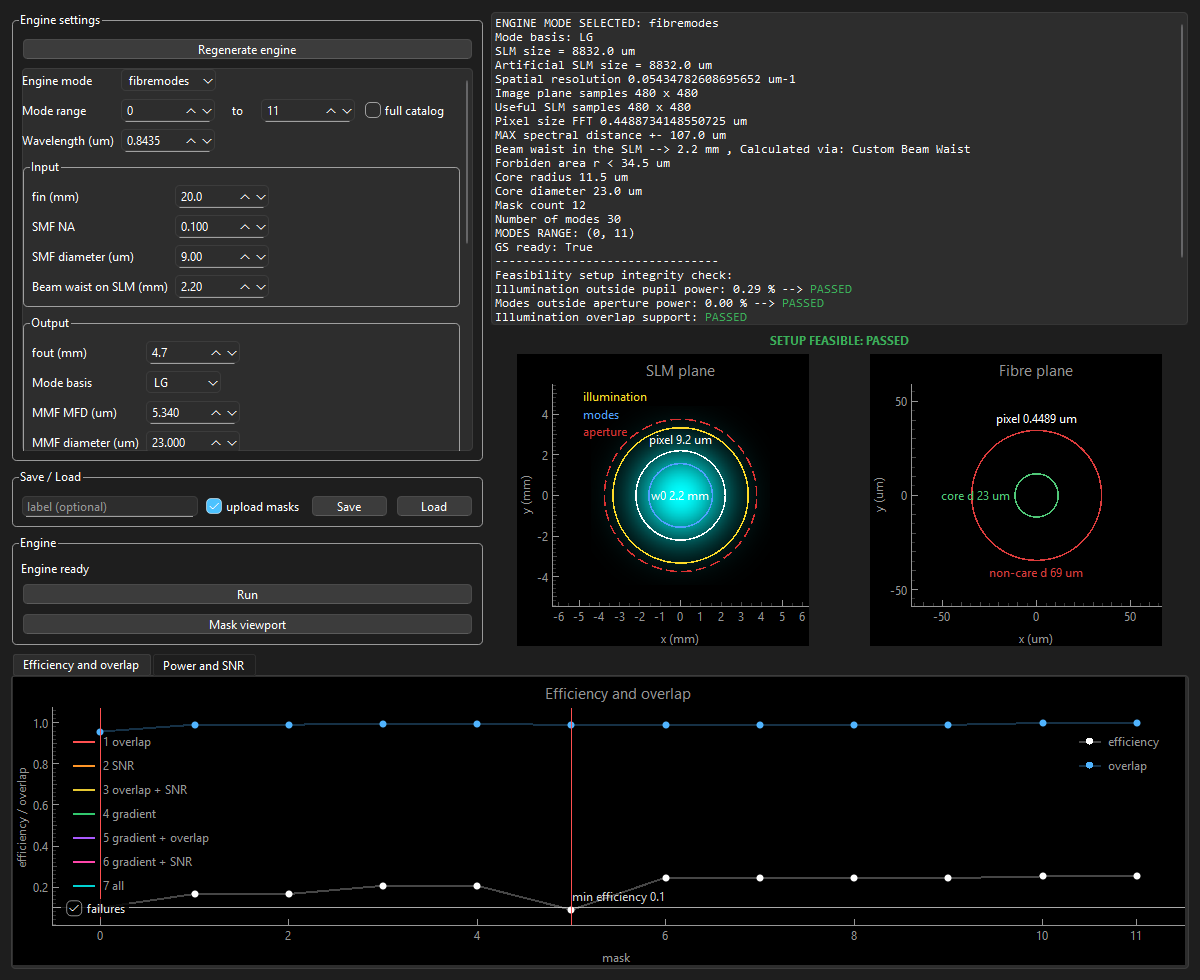
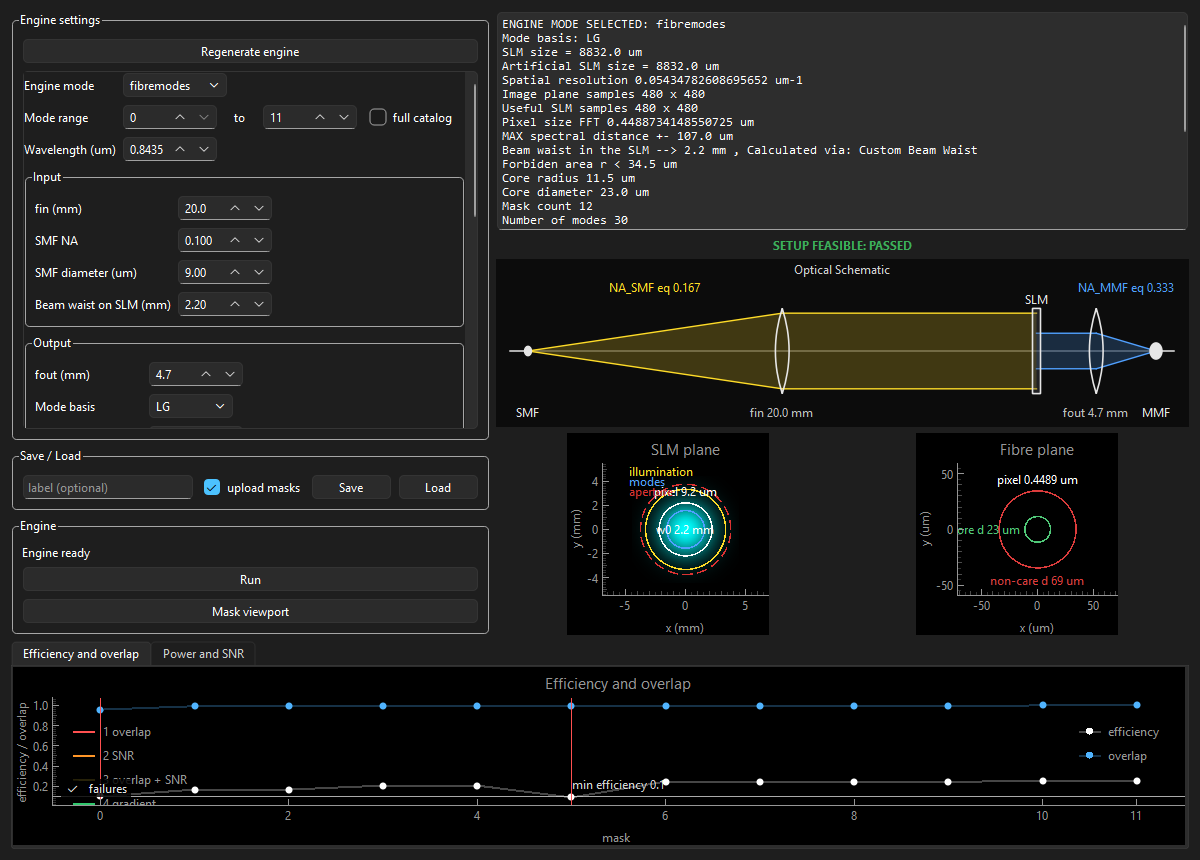
Release gs 1.2.0 with the optical schematic on the widget.
The schematic draws the SMF and MMF beams only as far as the SLM and labels the equivalent numerical apertures, so the aperture check is visible before a run.

diff --git a/ui/schematic.py b/ui/schematic.py
@@ -13,70 +13,97 @@ _HARDWARE = QColor(230, 230, 230)
 
 
 class OpticalBench(QWidget):
-    """SMF to the SLM in yellow, MMF to the SLM in blue.
+    """Both beams are traced back from their coverage radii on the SLM.
 
-    Yellow half-height is ``fin * NA_SMF``. Blue half-height is the mode
-    coverage radius, scaled by the current ``fout`` against the focal length
-    the engine was built with. Both beams stop on the SLM.
+    The SLM bar is the aperture. A radius larger than the aperture sticks out
+    of the bar. ``NA_SMF eq`` is the illumination radius over ``fin``, and
+    ``NA_MMF eq`` is the mode radius over ``fout``.
     """
 
     def __init__(self, parent=None):
         super().__init__(parent)
         self._fin_mm = 1.0
         self._fout_mm = 1.0
-        self._na_smf = 0.1
+        self._ill_radius_mm = None
         self._modes_radius_mm = None
+        self._pupil_mm = None
+        self._fin_ref_mm = None
         self._fout_ref_mm = None
         self.setFixedHeight(168)
 
-    def set_beam(self, fin_mm: float, fout_mm: float, na_smf: float) -> None:
+    def set_beam(self, fin_mm: float, fout_mm: float) -> None:
         self._fin_mm = max(float(fin_mm), 0.1)
         self._fout_mm = max(float(fout_mm), 0.1)
-        self._na_smf = max(float(na_smf), 0.0)
         self.update()
 
-    def set_modes_radius(self, radius_mm: float | None, fout_mm: float) -> None:
-        """Mode footprint on the SLM, measured at ``fout_mm``."""
-        self._modes_radius_mm = None if radius_mm is None else float(radius_mm)
-        self._fout_ref_mm = float(fout_mm) if radius_mm is not None else None
+    def set_footprints(
+        self,
+        ill_mm: float | None,
+        modes_mm: float | None,
+        pupil_mm: float | None,
+        fin_mm: float,
+        fout_mm: float,
+    ) -> None:
+        """Coverage radii and the aperture, measured at these focal lengths."""
+        self._ill_radius_mm = None if ill_mm is None else float(ill_mm)
+        self._modes_radius_mm = None if modes_mm is None else float(modes_mm)
+        self._pupil_mm = None if not pupil_mm else float(pupil_mm)
+        self._fin_ref_mm = float(fin_mm) if ill_mm is not None else None
+        self._fout_ref_mm = float(fout_mm) if modes_mm is not None else None
         self.update()
 
     def paintEvent(self, _event):
         painter = QPainter(self)
         painter.setRenderHint(QPainter.RenderHint.Antialiasing, True)
-        rect = self.rect().adjusted(8, 6, -8, -6)
         painter.fillRect(self.rect(), QColor(12, 12, 12))
+        painter.setPen(QColor(210, 210, 210))
+        painter.drawText(QRectF(0, 2, self.width(), 16), Qt.AlignmentFlag.AlignCenter, "Optical Schematic")
+        rect = self.rect().adjusted(8, 20, -8, -6)
         if rect.width() < 80 or rect.height() < 40:
             return
 
-        cy = rect.center().y() + 4
-        span = rect.height() * 0.30
-        yellow_mm = self._fin_mm * self._na_smf
-        blue_mm = self._blue_mm()
-        scale = span / max(yellow_mm, blue_mm or 0.0, 1e-6)
-        yellow = yellow_mm * scale
-        blue = None if blue_mm is None else blue_mm * scale
-
+        cy = rect.center().y() + 2
         smf, lens1, slm, lens2, mmf = self._stations(rect)
+        bar = rect.height() * 0.30
+        yellow = self._half_px(self._scaled(self._ill_radius_mm, self._fin_mm, self._fin_ref_mm), bar, rect)
+        blue = self._half_px(self._scaled(self._modes_radius_mm, self._fout_mm, self._fout_ref_mm), bar, rect)
+        na_smf = self._equivalent_na(self._ill_radius_mm, self._fin_ref_mm)
+        na_mmf = self._equivalent_na(self._modes_radius_mm, self._fout_ref_mm)
+
         painter.setPen(QPen(_AXIS, 1))
         painter.drawLine(QPointF(smf, cy), QPointF(mmf, cy))
-
-        self._beam(painter, _YELLOW, smf, lens1, slm, cy, yellow)
+        if yellow is not None:
+            self._beam(painter, _YELLOW, smf, lens1, slm, cy, yellow)
         if blue is not None:
             self._beam(painter, _BLUE, mmf, lens2, slm, cy, blue)
+        self._lens(painter, lens1, cy, bar)
+        self._lens(painter, lens2, cy, bar)
+        self._bar(painter, slm, cy, bar, "SLM")
 
         self._fibre(painter, smf, cy, rect.bottom() - 16, 3.5, "SMF", -1)
-        self._lens(painter, lens1, cy)
-        self._slm(painter, slm, cy, rect.height() * 0.36)
-        self._lens(painter, lens2, cy)
         self._fibre(painter, mmf, cy, rect.bottom() - 16, 6.0, "MMF", 1)
-        self._gap_label(painter, lens1, slm, rect.bottom() - 16, f"fin {self._fin_mm:.1f} mm")
-        self._gap_label(painter, slm, lens2, rect.bottom() - 16, f"fout {self._fout_mm:.1f} mm")
+        self._apex_label(painter, lens1, rect.bottom() - 16, f"fin {self._fin_mm:.1f} mm")
+        self._apex_label(painter, lens2, rect.bottom() - 16, f"fout {self._fout_mm:.1f} mm")
+        if na_smf is not None:
+            self._na_label(painter, (smf + lens1) / 2, rect.top(), f"NA_SMF eq {na_smf:.3f}", _YELLOW)
+        if na_mmf is not None:
+            self._na_label(painter, (lens2 + mmf) / 2, rect.top(), f"NA_MMF eq {na_mmf:.3f}", _BLUE)
 
-    def _blue_mm(self) -> float | None:
-        if self._modes_radius_mm is None or not self._fout_ref_mm:
+    def _scaled(self, radius_mm: float | None, focal_mm: float, focal_ref_mm: float | None) -> float | None:
+        if radius_mm is None or not focal_ref_mm:
             return None
-        return self._modes_radius_mm * (self._fout_mm / self._fout_ref_mm)
+        return radius_mm * (focal_mm / focal_ref_mm)
+
+    def _equivalent_na(self, radius_mm: float | None, focal_mm: float | None) -> float | None:
+        if radius_mm is None or not focal_mm:
+            return None
+        return radius_mm / focal_mm
+
+    def _half_px(self, radius_mm: float | None, bar: float, rect: QRectF) -> float | None:
+        """Map a radius onto the aperture bar. Larger than the pupil sticks out."""
+        if radius_mm is None or not self._pupil_mm:
+            return None
+        return min(bar * (radius_mm / self._pupil_mm), rect.height() * 0.44)
 
     def _stations(self, rect: QRectF) -> tuple[float, float, float, float, float]:
         """SMF, first lens, SLM, second lens, MMF. Gaps follow the focal lengths."""
@@ -124,26 +151,31 @@ class OpticalBench(QWidget):
         painter.setPen(_HARDWARE)
         painter.drawText(QRectF(x - 22, label_top, 44, 16), Qt.AlignmentFlag.AlignCenter, label)
 
-    def _lens(self, painter: QPainter, x: float, cy: float):
+    def _lens(self, painter: QPainter, x: float, cy: float, half: float):
+        bulge = max(6.0, half * 9.0 / 28.0)
         path = QPainterPath()
-        path.moveTo(x, cy - 28)
-        path.quadTo(x + 9, cy, x, cy + 28)
-        path.quadTo(x - 9, cy, x, cy - 28)
-        painter.setPen(QPen(_HARDWARE, 1.4))
+        path.moveTo(x, cy - half)
+        path.quadTo(x + bulge, cy, x, cy + half)
+        path.quadTo(x - bulge, cy, x, cy - half)
+        painter.setPen(QPen(_HARDWARE, 1.6))
         painter.setBrush(Qt.BrushStyle.NoBrush)
         painter.drawPath(path)
 
-    def _slm(self, painter: QPainter, x: float, cy: float, half: float):
-        rect = QRectF(x - 5, cy - half, 10, 2 * half)
-        painter.setPen(QPen(_HARDWARE, 1.4))
-        painter.setBrush(QColor(70, 70, 78))
+    def _bar(self, painter: QPainter, x: float, cy: float, half: float, label: str | None = None):
+        rect = QRectF(x - 4, cy - half, 8, 2 * half)
+        fill = QColor(70, 70, 78, 90)
+        painter.setPen(QPen(_HARDWARE, 1.6))
+        painter.setBrush(fill)
         painter.drawRect(rect)
+        if label is None:
+            return
         painter.setPen(_HARDWARE)
-        painter.drawText(QRectF(x - 24, cy - half - 16, 48, 14), Qt.AlignmentFlag.AlignCenter, "SLM")
+        painter.drawText(QRectF(x - 24, cy - half - 16, 48, 14), Qt.AlignmentFlag.AlignCenter, label)
 
-    def _gap_label(self, painter: QPainter, left: float, right: float, top: float, text: str):
+    def _apex_label(self, painter: QPainter, x: float, top: float, text: str):
         painter.setPen(QColor(190, 190, 190))
-        span = right - left
-        if painter.fontMetrics().horizontalAdvance(text) > span - 4:
-            text = text.split(" ", 1)[-1]
-        painter.drawText(QRectF(left, top, span, 16), Qt.AlignmentFlag.AlignCenter, text)
+        painter.drawText(QRectF(x - 52, top, 104, 16), Qt.AlignmentFlag.AlignCenter, text)
+
+    def _na_label(self, painter: QPainter, x: float, top: float, text: str, color: QColor):
+        painter.setPen(color)
+        painter.drawText(QRectF(x - 58, top, 116, 16), Qt.AlignmentFlag.AlignCenter, text)

diff --git a/ui/widget.py b/ui/widget.py
@@ -69,7 +69,7 @@ class GSWidget(QWidget):
         self._controls["engine_mode"].currentIndexChanged.connect(self._sync_mode_rows)
         self._controls["mode_basis"].currentIndexChanged.connect(self._sync_mode_rows)
         self._controls["full_catalog"].toggled.connect(self._sync_mode_rows)
-        for key in ("fin", "fout", "smf_in_NA"):
+        for key in ("fin", "fout"):
             self._controls[key].valueChanged.connect(self._sync_bench)
 
         self._create = QPushButton("Create")
@@ -145,8 +145,8 @@ class GSWidget(QWidget):
         plots.addLayout(sketches, stretch=1)
 
         side = QVBoxLayout()
-        side.addWidget(self._properties, stretch=1)
-        side.addLayout(plots, stretch=1)
+        side.addWidget(self._properties, stretch=2)
+        side.addLayout(plots, stretch=3)
 
         column = QVBoxLayout()
         column.addWidget(self._settings_box, stretch=1)
@@ -236,6 +236,7 @@ class GSWidget(QWidget):
         self._engine = engine
         self._results_ready = bool(has_results)
         write_settings(self._controls, settings_from_engine(engine))
+        self._sync_bench()
         self._sync_mode_rows()
         self._refresh_properties()
         if has_results:
@@ -278,7 +279,7 @@ class GSWidget(QWidget):
             self._show_feasibility(None)
             self._sketch.set_properties(None)
             self._slm_sketch.set_properties(None)
-            self._bench.set_modes_radius(None, 0.0)
+            self._bench.set_footprints(None, None, None, 0.0, 0.0)
             return
         properties = engine.get_gs_properties()
         illumination = getattr(getattr(engine, "illumination", None), "ILLUMINATION", None)
@@ -286,8 +287,12 @@ class GSWidget(QWidget):
         self._show_feasibility(properties)
         self._sketch.set_properties(properties)
         self._slm_sketch.set_properties(properties, illumination)
-        self._bench.set_modes_radius(
-            _modes_radius_mm(properties),
+        pupil = properties.get("pupil_radius_um")
+        self._bench.set_footprints(
+            _coverage_mm(properties, "ill_coverage_rad_px_approx"),
+            _coverage_mm(properties, "modes_coverage_rad_px_approx"),
+            None if pupil is None else float(pupil) * 1e-3,
+            float(self._controls["fin"].value()),
             float(self._controls["fout"].value()),
         )
 
@@ -295,7 +300,6 @@ class GSWidget(QWidget):
         self._bench.set_beam(
             float(self._controls["fin"].value()),
             float(self._controls["fout"].value()),
-            float(self._controls["smf_in_NA"].value()),
         )
 
     def _load_coefs_file(self):
@@ -433,9 +437,9 @@ class _SettingsScroll(QScrollArea):
         return QSize(width, 80)
 
 
-def _modes_radius_mm(properties: dict) -> float | None:
-    """Mode coverage radius in millimetres, using the downscaled SLM pitch."""
-    radius_px = properties.get("modes_coverage_rad_px_approx")
+def _coverage_mm(properties: dict, key: str) -> float | None:
+    """Coverage radius in millimetres, using the downscaled SLM pitch."""
+    radius_px = properties.get(key)
     pitch = properties.get("slm_pixel_size_um")
     downscale = properties.get("downscale")
     if radius_px is None or pitch is None or downscale is None:

diff --git a/scripts/capture_gui.py b/scripts/capture_gui.py
@@ -96,7 +96,12 @@ def main() -> None:
     app = QApplication.instance() or QApplication(sys.argv)
 
     gui = GSWidget(engine)
-    gui.resize(1280, 980)
+    gui.resize(1680, 1480)
+    # The desktop clamps the window. Keep the property pane short enough
+    # that the schematic and the two plane sketches stay on screen.
+    gui._properties.setMaximumHeight(220)
+    gui.layout().setStretch(0, 3)
+    gui.layout().setStretch(1, 1)
     gui.show()
     gui.raise_()
     gui.activateWindow()

diff --git a/README.md b/README.md
@@ -24,7 +24,7 @@ gs/
 ```
 fibremodes@v1.1.1  (+ cupy-cuda13x via [gpu])
         ↑
-      gs@v1.1.0
+      gs@v1.2.0
 ```
 
 `gs` pins `fibremodes[gpu]` by git tag in `pyproject.toml`. Installing `gs` pulls fibremodes (LG/HG modes) and CuPy — no manual `sys.path` chaining.
@@ -192,7 +192,9 @@ gui = GSWidget(library)
 gui.show()
 ```
 
-Focal lengths and the beam waist are shown in millimetres. The engine still stores those lengths in micrometres. The picture below is the window after a fibre-mode library run: feasibility, the SLM-plane illumination, and the efficiency and overlap of each mask.
+Focal lengths and the beam waist are shown in millimetres. The engine still stores those lengths in micrometres. The picture below is the window after a fibre-mode library run: feasibility, the bench schematic, the SLM-plane illumination, and the efficiency and overlap of each mask.
+
+The schematic draws both beams only as far as the SLM. Yellow is the illumination coverage and blue is the mode coverage. The SLM bar is the aperture, so a footprint larger than the aperture sticks out of the bar. `NA_SMF eq` is the illumination radius over `fin`, and `NA_MMF eq` is the mode radius over `fout`. Changing either focal length in the form rescales that beam before the engine is rebuilt.
 
 <!-- gui-screenshot -->
 ![GS widget after a mode-library run](docs/images/gui.png)
@@ -220,7 +222,7 @@ from gs.toolbox.setup import optical_setup, GS_mask_setup
 ### From GitHub (tagged release)
 
 ```bash
-pip install "gs @ git+https://github.com/MarKo7s/GS.git@v1.1.0"
+pip install "gs @ git+https://github.com/MarKo7s/GS.git@v1.2.0"
 ```
 
 That resolves the pinned `fibremodes[gpu] @ …@v1.1.1` (and CuPy via that extra).
@@ -229,7 +231,7 @@ Other packages can depend on the same pin in `pyproject.toml`:
 
 ```toml
 dependencies = [
-  "gs @ git+https://github.com/MarKo7s/GS.git@v1.1.0",
+  "gs @ git+https://github.com/MarKo7s/GS.git@v1.2.0",
 ]
 ```
 

diff --git a/CHANGELOG.md b/CHANGELOG.md
@@ -4,7 +4,7 @@ All notable changes to gs are documented in this file.
 
 The format is based on [Keep a Changelog](https://keepachangelog.com/en/1.1.0/).
 
-## [Unreleased]
+## [1.2.0] - 2026-10-22
 
 ### Added
 
@@ -13,6 +13,7 @@ The format is based on [Keep a Changelog](https://keepachangelog.com/en/1.1.0/).
 - Every `GS.run` appends to `%PROGRAMDATA%\LAB\Algorithm\GS\logger\gs.log`, including when `verbose` is false. A mask that does not pass is a warning.
 - Optional `GSWidget` (`pip install gs[gui]`) to build, run, save, and inspect an engine without calling `GS.run` on the GUI thread.
 - `get_gs_properties()` includes the feasibility flags (power outside the pupil, mode power outside the aperture, illumination support, and the maximum MMF NA). `GSWidget` shows them and can load a library without copying the saved masks.
+- `GSWidget` draws the SMF and MMF beams only as far as the SLM. The SLM bar is the aperture, and the labels are the equivalent numerical apertures (coverage radius over focal length).
 
 ## [1.1.0] - 2026-10-19
 
